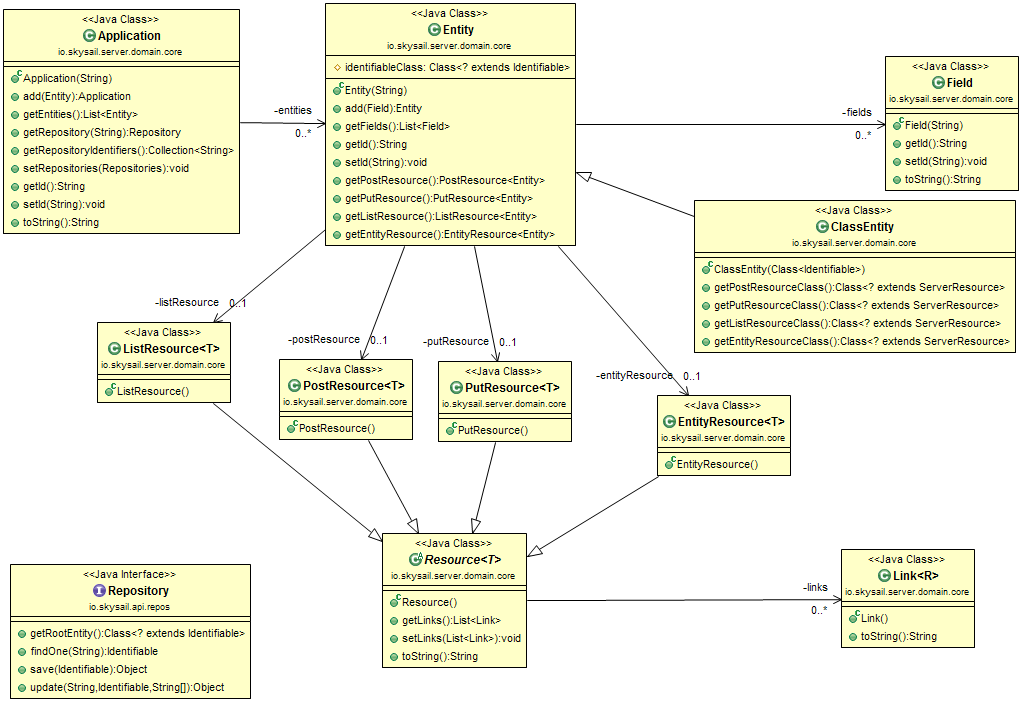
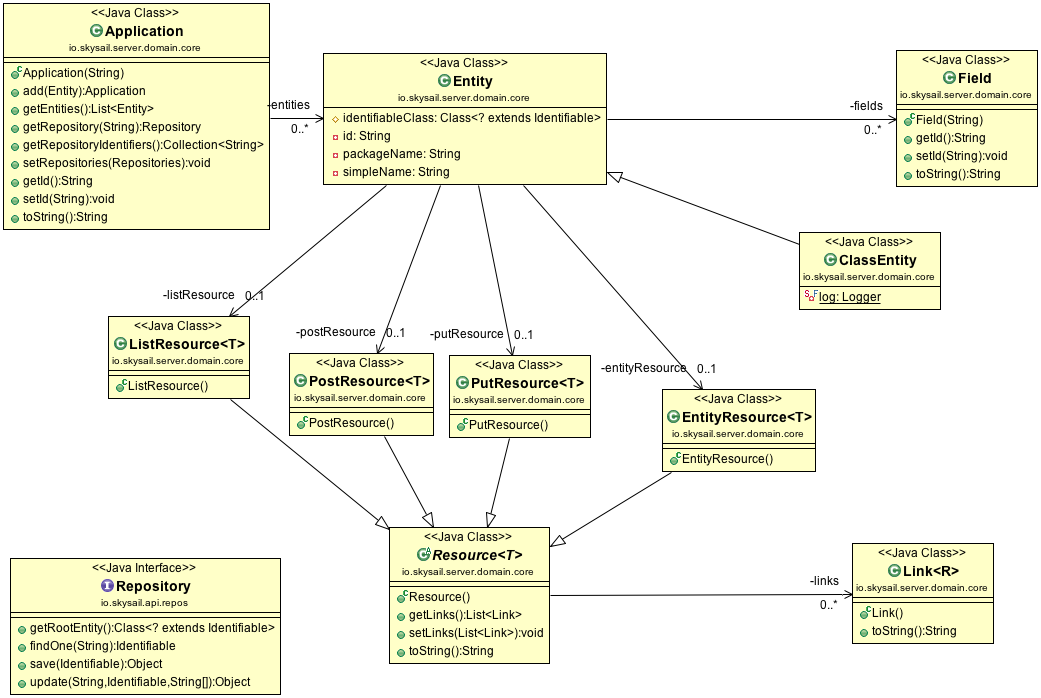
docs

diff --git a/skysail.server/src/io/skysail/server/app/SkysailApplication.java b/skysail.server/src/io/skysail/server/app/SkysailApplication.java
@@ -136,7 +136,8 @@ public abstract class SkysailApplication extends RamlApplication implements Appl
 
     /**
      * The core domain: a model defining an application with its entities, repositories,
-     * entities fields, relations and so on.
+     * entities fields, relations and so on. SkysailApplication itself cannot extend this
+     * class as it has to be derived from a restlet application.
      */
     private io.skysail.server.domain.core.Application applicationModel;
 
@@ -161,7 +162,6 @@ public abstract class SkysailApplication extends RamlApplication implements Appl
         this.apiVersion = apiVersion;
         applicationModel = new io.skysail.server.domain.core.Application(appName);
         entityClasses.forEach(cls -> applicationModel.add(new ClassEntity(cls)));
-        //setContext(new Context());
     }
 
 

diff --git a/skysail.server/src/io/skysail/server/domain/core/Application.java b/skysail.server/src/io/skysail/server/domain/core/Application.java
@@ -7,10 +7,17 @@ import io.skysail.server.app.Repositories;
 import java.util.*;
 
 import lombok.*;
-import lombok.extern.slf4j.Slf4j;
 
+/**
+ * This is the root class of skysail's core domain, describing an application, which aggregates
+ * a list of entities and keeps track of repositories to persist those entities.
+ *
+ * According to specific needs, the core domain can be adapted by extending the corresponding
+ * classes. For example, there's a domain extension dealing with the creation of java source
+ * files and classes according to a specific core domain model.
+ *
+ */
 @ToString
-@Slf4j
 public class Application implements Identifiable {
 
     @Getter

diff --git a/skysail.server/src/io/skysail/server/domain/core/Entity.java b/skysail.server/src/io/skysail/server/domain/core/Entity.java
@@ -6,8 +6,12 @@ import java.util.*;
 
 import lombok.*;
 
-//@ToString
-//@Slf4j
+/**
+ * A central class of skysail's core domain: An entity belongs to exaclty one application
+ * and aggregates a list of fields describing the entities state along with a couple of
+ * resource classes dealing with creation, alteration, reading and deleting this state.
+ *
+ */
 @Getter
 @Setter
 public class Entity implements Identifiable {

diff --git a/skysail.server/src/io/skysail/server/domain/core/Field.java b/skysail.server/src/io/skysail/server/domain/core/Field.java
@@ -3,6 +3,10 @@ package io.skysail.server.domain.core;
 import io.skysail.api.domain.Identifiable;
 import lombok.*;
 
+/**
+ * Part of skysail's core domain: A Field belongs to an entity which belongs to an application.
+ *
+ */
 @Getter
 @Setter
 @ToString
